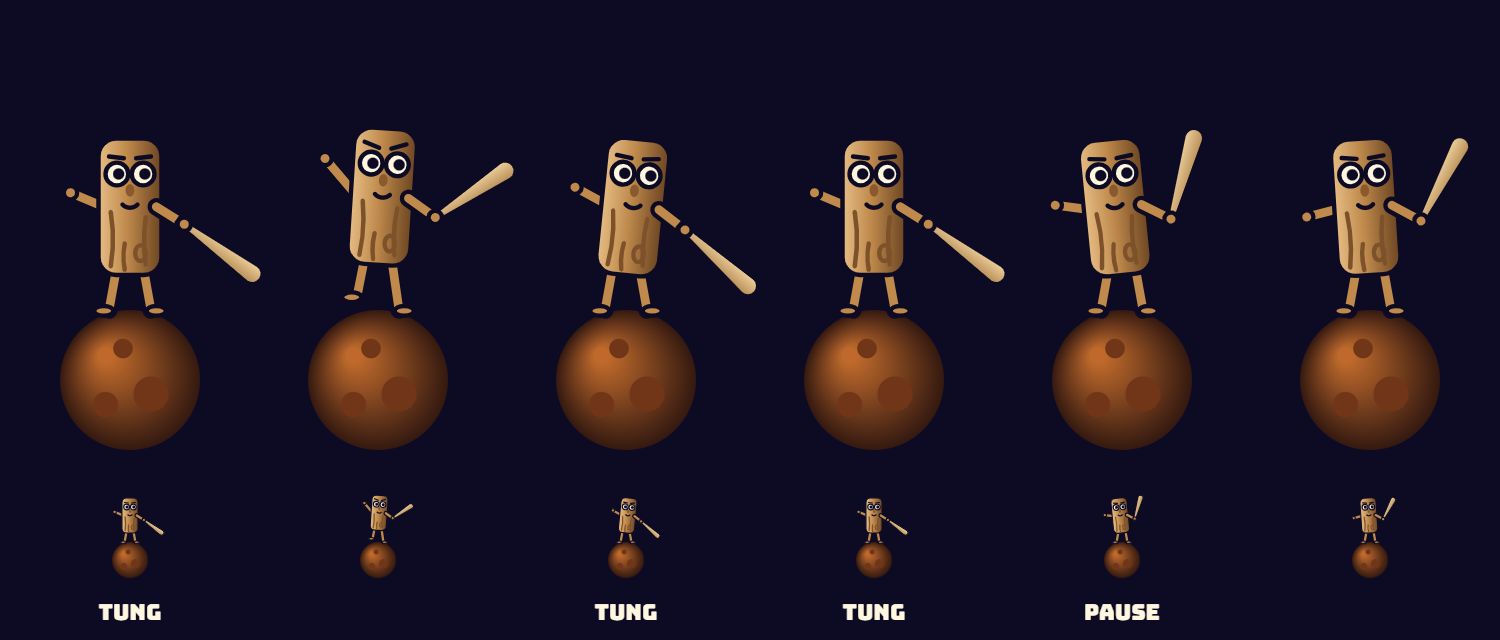
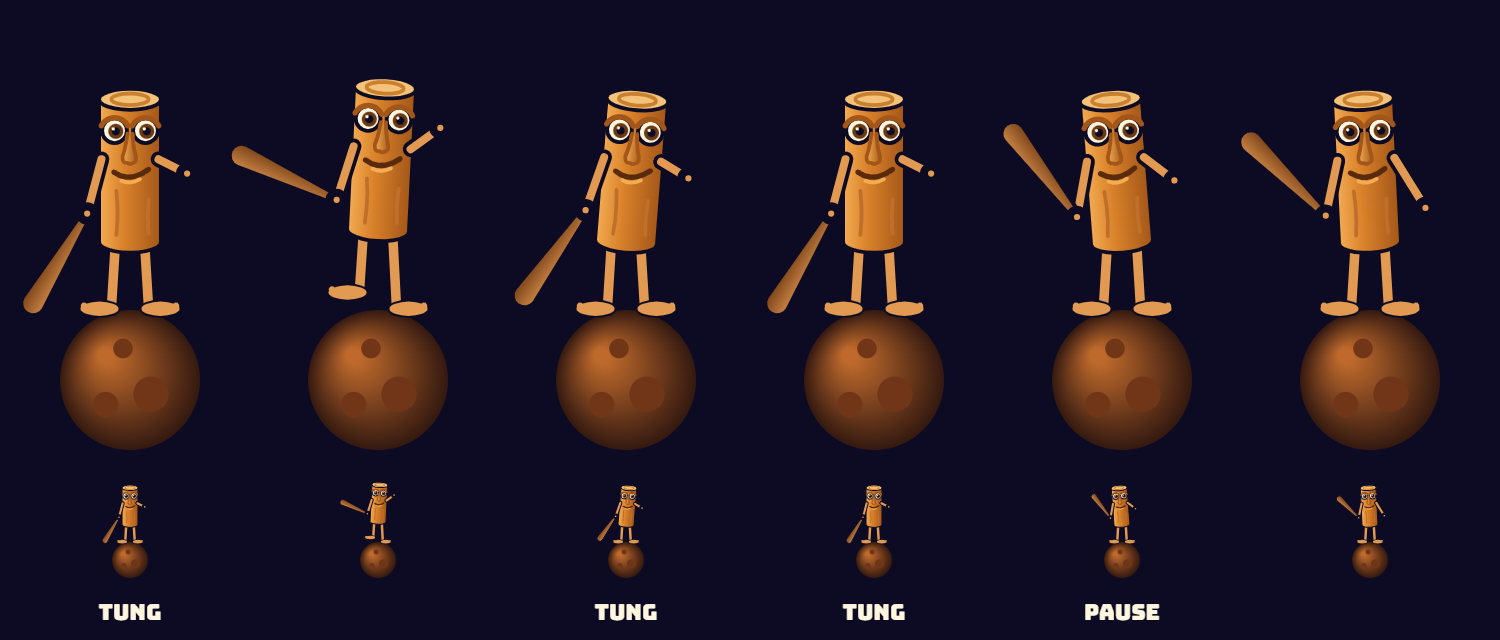
Tung Tung Tung Sahur plus proche du vrai
Bûche orange vernie à dessus coupé avec cernes, grands yeux à iris marron, long nez, sourire en coin, bras et longues jambes fines, grands pieds nus, batte tenue à gauche. Plus grand sur l'astéroïde pour rester lisible.

diff --git a/public/js/app/planets.js b/public/js/app/planets.js
@@ -302,110 +302,156 @@ function rock(ctx, r) {
 }
 
 const BEAT = 0.42;
-const GRAIN = [[-0.11, -0.05, -0.36, 0.025], [-0.03, -0.03, -0.18, -0.015], [0.09, -0.06, -0.33, -0.02]];
+const GRAIN = [[-0.22, -0.05, -0.36, 0.04], [0.3, -0.06, -0.3, -0.03]];
 
-function limb(ctx, from, to, s, line) {
+function limb(ctx, from, to, width, line) {
   ctx.beginPath();
   ctx.moveTo(...from);
   ctx.lineTo(...to);
   ctx.strokeStyle = INK;
-  ctx.lineWidth = s * 0.05 + line * 2;
+  ctx.lineWidth = width + line * 2;
   ctx.stroke();
-  ctx.strokeStyle = SKY.tung.wood;
-  ctx.lineWidth = s * 0.05;
+  ctx.strokeStyle = SKY.tung.skin;
+  ctx.lineWidth = width;
   ctx.stroke();
 }
 
-function knob(ctx, x, y, rx, ry, line) {
-  ctx.fillStyle = SKY.tung.wood;
+function foot(ctx, x, y, dir, s, line) {
+  ctx.fillStyle = SKY.tung.skin;
   ctx.strokeStyle = INK;
   ctx.lineWidth = line;
   ctx.beginPath();
-  ctx.ellipse(x, y, rx, ry, 0, 0, TAU);
+  ctx.ellipse(x + dir * s * 0.05, y, s * 0.08, s * 0.03, 0, 0, TAU);
+  for (let i = 0; i < 3; i++) {
+    const tx = x + dir * s * (0.115 - i * 0.02), ty = y - s * 0.012 + i * s * 0.004;
+    ctx.moveTo(tx + s * 0.014, ty);
+    ctx.arc(tx, ty, s * 0.014, 0, TAU);
+  }
   ctx.fill();
   ctx.stroke();
+  ctx.fill();
 }
 
 function bat(ctx, s) {
-  const B = SKY.tung, g = ctx.createLinearGradient(-s * 0.06, 0, s * 0.06, 0);
+  const B = SKY.tung, g = ctx.createLinearGradient(-s * 0.05, 0, s * 0.05, 0);
   g.addColorStop(0, B.bat);
   g.addColorStop(1, B.batDark);
   ctx.fillStyle = g;
   ctx.beginPath();
-  ctx.moveTo(-s * 0.022, s * 0.04);
-  ctx.lineTo(-s * 0.06, -s * 0.48);
-  ctx.arc(0, -s * 0.48, s * 0.06, Math.PI, 0);
-  ctx.lineTo(s * 0.022, s * 0.04);
+  ctx.moveTo(-s * 0.016, s * 0.03);
+  ctx.lineTo(-s * 0.05, -s * 0.44);
+  ctx.arc(0, -s * 0.44, s * 0.05, Math.PI, 0);
+  ctx.lineTo(s * 0.016, s * 0.03);
   ctx.closePath();
   ctx.fill();
   ctx.stroke();
 }
 
+function face(ctx, w, h, line) {
+  const B = SKY.tung, ey = -h * 0.78;
+  ctx.strokeStyle = INK;
+  ctx.lineWidth = line;
+  for (const side of [-1, 1]) {
+    const ex = side * w * 0.25;
+    ctx.fillStyle = B.eye;
+    ctx.beginPath();
+    ctx.arc(ex, ey, w * 0.2, 0, TAU);
+    ctx.fill();
+    ctx.stroke();
+    ctx.fillStyle = B.iris;
+    disc(ctx, ex + w * 0.02, ey + w * 0.01, w * 0.12);
+    ctx.fillStyle = INK;
+    disc(ctx, ex + w * 0.02, ey + w * 0.01, w * 0.065);
+    ctx.fillStyle = B.eye;
+    disc(ctx, ex - w * 0.02, ey - w * 0.03, w * 0.025);
+    ctx.strokeStyle = B.dark;
+    ctx.lineWidth = line * 1.4;
+    ctx.beginPath();
+    ctx.arc(ex, ey + w * 0.03, w * 0.24, Math.PI * 1.15, Math.PI * 1.85);
+    ctx.stroke();
+    ctx.strokeStyle = INK;
+    ctx.lineWidth = line;
+  }
+  const g = ctx.createLinearGradient(-w * 0.12, 0, w * 0.12, 0);
+  g.addColorStop(0, B.light);
+  g.addColorStop(1, B.dark);
+  ctx.fillStyle = g;
+  ctx.beginPath();
+  ctx.moveTo(-w * 0.04, -h * 0.76);
+  ctx.quadraticCurveTo(-w * 0.07, -h * 0.66, -w * 0.12, -h * 0.6);
+  ctx.quadraticCurveTo(-w * 0.13, -h * 0.55, -w * 0.04, -h * 0.555);
+  ctx.quadraticCurveTo(0, -h * 0.54, w * 0.05, -h * 0.555);
+  ctx.quadraticCurveTo(w * 0.12, -h * 0.56, w * 0.09, -h * 0.61);
+  ctx.quadraticCurveTo(w * 0.05, -h * 0.67, w * 0.04, -h * 0.76);
+  ctx.fill();
+  ctx.strokeStyle = B.dark;
+  ctx.stroke();
+  ctx.strokeStyle = B.lip;
+  ctx.lineWidth = line * 1.4;
+  ctx.beginPath();
+  ctx.moveTo(-w * 0.26, -h * 0.49);
+  ctx.quadraticCurveTo(0, -h * 0.41, w * 0.3, -h * 0.51);
+  ctx.stroke();
+  ctx.strokeStyle = B.light;
+  ctx.lineWidth = line;
+  ctx.beginPath();
+  ctx.moveTo(-w * 0.14, -h * 0.43);
+  ctx.quadraticCurveTo(0, -h * 0.4, w * 0.16, -h * 0.44);
+  ctx.stroke();
+}
+
 function tung(ctx, s, clock) {
   const B = SKY.tung, k = clock / BEAT, beat = Math.floor(k), f = k - beat, hit = ((beat % 4) + 4) % 4 < 3;
-  const hop = hit ? Math.sin(f * Math.PI) : 0, line = Math.max(1.2, s * 0.025);
-  const swing = hit ? 0.3 + 1.9 * (1 - f) * (1 - f) : 0.3 + 0.25 * Math.sin(f * Math.PI);
-  const sway = Math.sin((clock / BEAT) * (Math.PI / 2)) * 0.1, wave = Math.sin((clock / BEAT) * Math.PI);
-  const w = s * 0.36, h = s * 0.78, lift = beat % 2 ? 1 : -1, rise = s * 0.22 + hop * s * 0.06;
+  const hop = hit ? Math.sin(f * Math.PI) : 0, line = Math.max(1, s * 0.016);
+  const swing = hit ? -0.5 - 2.1 * (1 - f) * (1 - f) : -0.5 - 0.25 * Math.sin(f * Math.PI);
+  const sway = Math.sin((clock / BEAT) * (Math.PI / 2)) * 0.08, wave = Math.sin((clock / BEAT) * Math.PI);
+  const w = s * 0.26, h = s * 0.6, legs = s * 0.3, rise = legs + hop * s * 0.05, lift = beat % 2 ? 1 : -1, end = w * 0.17;
   ctx.save();
   ctx.lineCap = "round";
   ctx.lineJoin = "round";
   for (const side of [-1, 1]) {
-    const up = side === lift ? hop * s * 0.08 : 0;
-    limb(ctx, [side * s * 0.08, -rise - s * 0.02], [side * s * 0.12, -up - s * 0.02], s, line);
-    knob(ctx, side * s * 0.15, -up - s * 0.015, s * 0.055, s * 0.028, line);
+    const up = side === lift ? hop * s * 0.07 : 0;
+    limb(ctx, [side * w * 0.24, -rise + end * 0.5], [side * w * 0.3, -up - s * 0.025], s * 0.04, line);
+    foot(ctx, side * w * 0.3, -up - s * 0.02, side, s, line);
   }
   ctx.translate(0, -rise);
   ctx.rotate(sway);
-  const shoulder = -h * 0.5, left = [-w / 2 - s * 0.16, shoulder - s * (0.08 + 0.12 * wave)];
-  limb(ctx, [-w / 2 + s * 0.03, shoulder], left, s, line);
-  knob(ctx, ...left, s * 0.038, s * 0.038, line);
+  const shoulder = -h * 0.58, free = [w / 2 + s * 0.11, shoulder + s * (0.06 - 0.16 * wave)], hand = [-w / 2 - s * 0.05, -h * 0.2];
   const g = ctx.createLinearGradient(-w / 2, 0, w / 2, 0);
   g.addColorStop(0, B.light);
-  g.addColorStop(0.45, B.wood);
+  g.addColorStop(0.4, B.wood);
   g.addColorStop(1, B.dark);
   ctx.fillStyle = g;
   ctx.strokeStyle = INK;
   ctx.lineWidth = line;
   ctx.beginPath();
-  rr(ctx, -w / 2, -h, w, h, w * 0.28);
+  ctx.moveTo(-w / 2, -h);
+  ctx.lineTo(-w / 2, 0);
+  ctx.ellipse(0, 0, w / 2, end, 0, Math.PI, 0, true);
+  ctx.lineTo(w / 2, -h);
+  ctx.closePath();
   ctx.fill();
   ctx.stroke();
   ctx.strokeStyle = B.grain;
   for (const [x, y0, y1, bend] of GRAIN) {
     ctx.beginPath();
-    ctx.moveTo(x * s, y0 * s);
-    ctx.quadraticCurveTo((x + bend) * s, ((y0 + y1) / 2) * s, x * s, y1 * s);
+    ctx.moveTo(x * w, y0 * h);
+    ctx.quadraticCurveTo((x + bend) * w, ((y0 + y1) / 2) * h, x * w, y1 * h);
     ctx.stroke();
   }
-  ctx.beginPath();
-  ctx.ellipse(s * 0.06, -h * 0.16, s * 0.03, s * 0.045, 0, 0, TAU);
-  ctx.stroke();
+  ctx.fillStyle = B.top;
   ctx.strokeStyle = INK;
-  for (const side of [-1, 1]) {
-    ctx.fillStyle = B.eye;
-    ctx.beginPath();
-    ctx.arc(side * s * 0.075, -h * 0.74, s * 0.065, 0, TAU);
-    ctx.fill();
-    ctx.stroke();
-    ctx.fillStyle = INK;
-    ctx.beginPath();
-    ctx.arc(side * s * 0.075 + s * 0.01, -h * 0.74, s * 0.032, 0, TAU);
-    ctx.fill();
-    ctx.beginPath();
-    ctx.moveTo(side * s * 0.035, -h * 0.74 - s * 0.09);
-    ctx.lineTo(side * s * 0.12, -h * 0.74 - s * 0.1 - hop * s * 0.02);
-    ctx.stroke();
-  }
-  ctx.fillStyle = B.nose;
   ctx.beginPath();
-  ctx.ellipse(0, -h * 0.62, s * 0.025, s * 0.035, 0, 0, TAU);
+  ctx.ellipse(0, -h, w / 2, end, 0, 0, TAU);
   ctx.fill();
-  ctx.beginPath();
-  ctx.arc(0, -h * 0.57, s * 0.06, 0.25 * Math.PI, 0.75 * Math.PI);
   ctx.stroke();
-  const hand = [w / 2 + s * 0.13, shoulder + s * 0.1];
-  limb(ctx, [w / 2 - s * 0.03, shoulder], hand, s, line);
+  ctx.strokeStyle = B.ring;
+  ctx.beginPath();
+  ctx.ellipse(0, -h, w * 0.3, end * 0.55, 0, 0, TAU);
+  ctx.stroke();
+  face(ctx, w, h, line);
+  limb(ctx, [w / 2 - s * 0.01, shoulder], free, s * 0.034, line);
+  limb(ctx, [-w / 2 + s * 0.01, shoulder], hand, s * 0.034, line);
   ctx.save();
   ctx.translate(...hand);
   ctx.rotate(swing);
@@ -413,7 +459,14 @@ function tung(ctx, s, clock) {
   ctx.lineWidth = line;
   bat(ctx, s);
   ctx.restore();
-  knob(ctx, ...hand, s * 0.038, s * 0.038, line);
+  ctx.fillStyle = B.skin;
+  ctx.strokeStyle = INK;
+  for (const [x, y] of [hand, free]) {
+    ctx.beginPath();
+    ctx.arc(x, y, s * 0.03, 0, TAU);
+    ctx.fill();
+    ctx.stroke();
+  }
   ctx.restore();
 }
 
@@ -421,7 +474,7 @@ function stage(ctx, r, clock) {
   rock(ctx, r);
   ctx.save();
   ctx.translate(0, -r * 0.95);
-  tung(ctx, r * 2.5, clock);
+  tung(ctx, r * 3.4, clock);
   ctx.restore();
 }
 

diff --git a/public/js/shared/palette.js b/public/js/shared/palette.js
@@ -45,7 +45,7 @@ export const SKY = {
   },
   moons: { light: "#5fa85a", dark: "#143320", spot: "#2c6435" },
   rock: { light: "#bf6a2c", dark: "#341910", spot: "#713617" },
-  tung: { light: "#e6bd85", wood: "#bf8a4c", dark: "#6b4421", grain: "#7d5129", bat: "#f0d3a0", batDark: "#b58a52", eye: "#fff6e0", nose: "#8a5a2e" },
+  tung: { light: "#f3ac52", wood: "#d9822b", dark: "#a35618", grain: "#c06f2a", top: "#f5c27a", ring: "#c9802f", skin: "#e29a52", bat: "#c98444", batDark: "#7a4218", eye: "#fff6e0", iris: "#6b3a14", lip: "#5a2a0c" },
   toaster: {
     sky: "#2c2650", skyLight: "#928bc2", horizon: "#d9d3f2", ground: "#1f1a35", groundLight: "#5c5487", rim: "rgba(13, 11, 36, 0.6)", shine: "#ffffff",
     slot: "#14121f", glow: "#ffa04a", glowDark: "#8a2412", crust: "#9a4f1c", crumb: "#ecc27a", toasted: "#c47d36", bakelite: "#1a1424", bakeliteLight: "#4a3f63"
